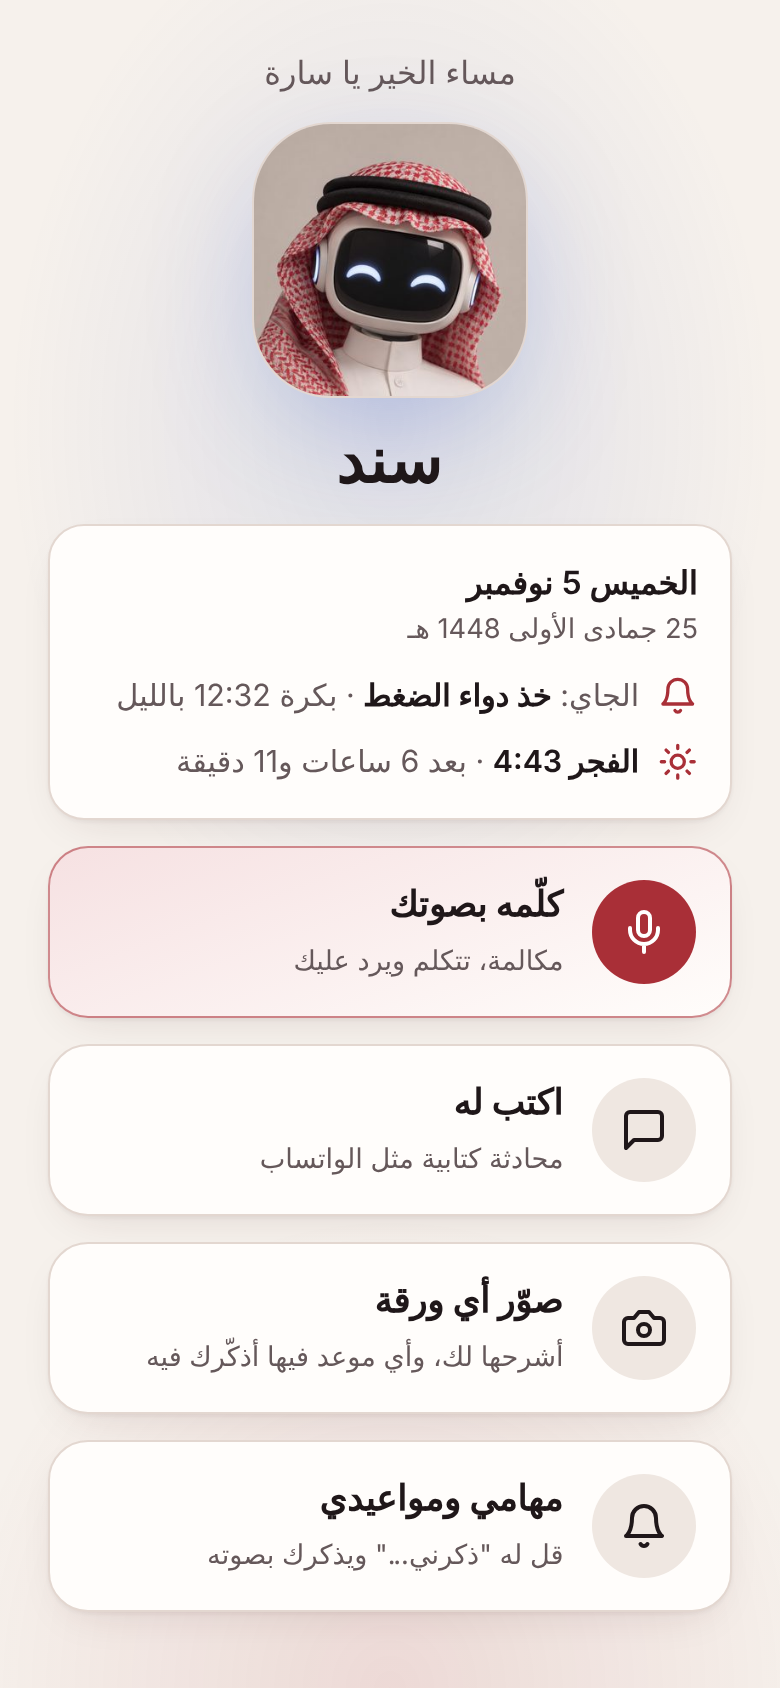
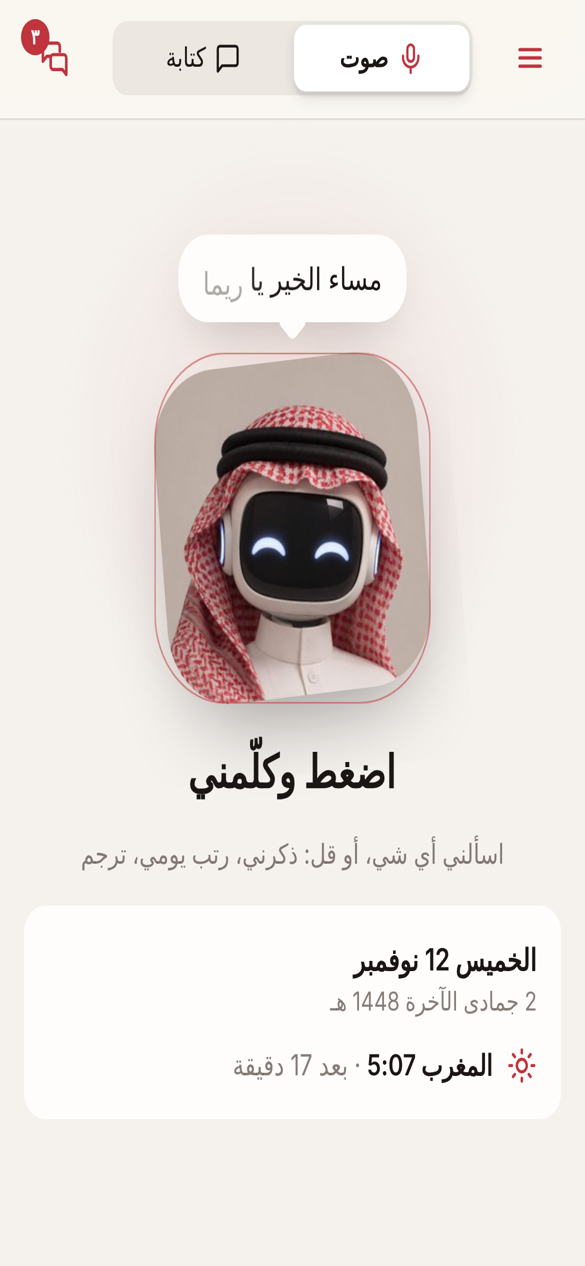
Sanad v3: messages and groups, Sanad acts for you, new screenshots

diff --git a/README.md b/README.md
@@ -20,15 +20,35 @@
 
 ## Screenshots
 
-| Start | Photograph any paper | Interpreter | Reminders |
+| Start | Messages | Group chat | Sanad does it for you |
 | --- | --- | --- | --- |
-| <img src="docs/screenshots/home.png" width="190"> | <img src="docs/screenshots/explain.png" width="190"> | <img src="docs/screenshots/translate.png" width="190"> | <img src="docs/screenshots/tasks.png" width="190"> |
+| <img src="docs/screenshots/home.png" width="190"> | <img src="docs/screenshots/messages.png" width="190"> | <img src="docs/screenshots/group-chat.png" width="190"> | <img src="docs/screenshots/sanad-acts.png" width="190"> |
+
+| Plan my day | Photograph any paper | Interpreter | Reminders |
+| --- | --- | --- | --- |
+| <img src="docs/screenshots/plan-day.png" width="190"> | <img src="docs/screenshots/explain.png" width="190"> | <img src="docs/screenshots/translate.png" width="190"> | <img src="docs/screenshots/tasks.png" width="190"> |
 
 *(Screenshots use sample data.)*
+
+> **Version 3.** People can now message each other inside Sanad, one-to-one and in groups, without sharing phone numbers, and Sanad can act on it for you ("سوّ قروب فيه سارة ونورة"). It also plans your day from a brain dump, finds where to get something from a photo, remembers what you tell it, can watch your Gmail for what matters, and answers faster by voice. The interface was redesigned in an Apple-like style.
 
 > **Version 2.** The first version ([version 1](https://github.com/r8jfi/sanad/tree/693ea34)) was a chat and voice assistant. Version 2 turns Sanad into a daily helper for the whole family: reminders by voice that reach the phone even when the app is closed, reminding your parents and seeing whether they did it, photographing any paper to have it explained, a face-to-face interpreter, adhkar, and an owner dashboard.
 
 ## Features
+
+### New in version 3
+
+- **Messages (الرسائل)**: one-to-one and group chats between people, with photos and files, in an iMessage-style layout (grouped bubbles with tails, "وصلت" / "قُرئت", time stamps, delete for everyone, mute). Everyone gets a 6-letter code or link to give out instead of a phone number; linked family and friends are already contacts. Group admins add, remove and rename; anyone can leave. Blocking stops one-to-one messages. New messages arrive as notifications.
+- **Sanad acts in Messages**: "سوّ قروب فيه سارة ونورة وسمّه فريق المشروع"، "قل للقروب إن الاجتماع الساعة ١٠"، "وش جاني من رسايل؟". Only people already in your contacts can be added; anything sent can be taken back with one tap.
+- **Plan my day (رتّب يومي)**: say everything on your mind and Sanad turns it into timed reminders around your appointments and prayer times.
+- **Where can I find it? (وين ألقاه؟)**: from a photo or a question, the nearest branch on a map (full screen during a voice call), or shops online.
+- **Memory**: Sanad remembers what you tell it (names, likes, plans) and uses it later; you can see and delete it in Settings.
+- **Gmail (opt-in)**: skips ads and notifies you when something important arrives, optionally to a linked person.
+- **Faster, more natural voice**: shorter wait after you stop talking, the first sentence starts playing while the rest is prepared, greetings answered instantly, and you can interrupt Sanad at any time by talking.
+- **Fewer mix-ups**: tools (interpreter, adhkar, plans, maps, messages) only start when you actually ask for them; a one-off "قل للسواق إني بتأخر" is translated once and done.
+- **Redesign**: two tabs (صوت / كتابة), a menu for everything else, Apple-style details, and a friendly greeting by time of day.
+
+### Everything else
 
 - **Voice-to-voice calls**: the user speaks, Sanad detects when they stop talking, transcribes, answers and speaks back in a Saudi voice, then listens again.
 - **Multi-agent routing**: a lightweight router classifies every message and sends it to the cheapest agent that can handle it.
@@ -80,6 +100,7 @@ The whole app is a single Worker: it serves the page and icons, and handles `/ap
 | `users` | One row per visitor (or `owner`), with role and first/last seen |
 | `conversations` | Title and timestamps, owned by a user |
 | `messages` | Each user/assistant turn, with the agent that answered and its sources |
+| `talk_threads`, `talk_members`, `talk_msgs`, `talk_files` | Chats between people, who is in each and how far they read, the messages, and photos/files (in R2 or in D1 pieces) |
 | `usage` | One row per user per day: messages, voice replies, and counts per agent, incremented atomically with `UPSERT` |
 
 The schema is created automatically on first use and documented in `schema.sql`. Every conversation query is scoped to the signed-in user, so nobody can read, write into or delete another person's chat.
@@ -121,12 +142,13 @@ The source code is private. No API key or password is ever stored in the code or
 
 ## Tests
 
-70 automated tests. The database tests run the worker's real SQL against Node's built-in SQLite, and the push tests decrypt every notification and verify its VAPID signature like a real push service would. Covered: reminders (create, edit, done, snooze, repeat, monthly edge cases), "ذكرني" in chat, family linking and permissions, cron delivery, follow-ups and the morning summary, push host allow-list, voice notes, agent routing and fallback, thinking and tool settings per agent, image and PDF attachments, gender-aware addressing, saved conversations and ownership checks, friend and guest limits, stats, forged-session rejection, CSRF, brute-force lockout, CSP headers, link filtering and pronunciation fixes.
+83 automated tests. The database tests run the worker's real SQL against Node's built-in SQLite, and the push tests decrypt every notification and verify its VAPID signature like a real push service would. Covered: messages and groups (codes, unread and read receipts, files and their safe serving, admins, blocking, account deletion), Sanad acting in messages, intent guards, reminders (create, edit, done, snooze, repeat, monthly edge cases), "ذكرني" in chat, family linking and permissions, cron delivery, follow-ups and the morning summary, push host allow-list, voice notes, agent routing and fallback, thinking and tool settings per agent, image and PDF attachments, gender-aware addressing, saved conversations and ownership checks, friend and guest limits, stats, forged-session rejection, CSRF, brute-force lockout, CSP headers, link filtering and pronunciation fixes.
 
 ## Roadmap
 
-- Streaming replies and sentence-by-sentence speech for lower latency
-- Real-time duplex voice over WebSockets
+- Streaming replies for lower latency
+- Tool use instead of a router, so the model itself picks the right action
+- Real-time duplex voice over WebSockets, and live delivery for Messages
 - Durable Objects for strict per-IP rate limits
 - Native iPhone and Android app, with reminders that ring like a call inside the app
 - WhatsApp channel and per-business knowledge for customer-service use
